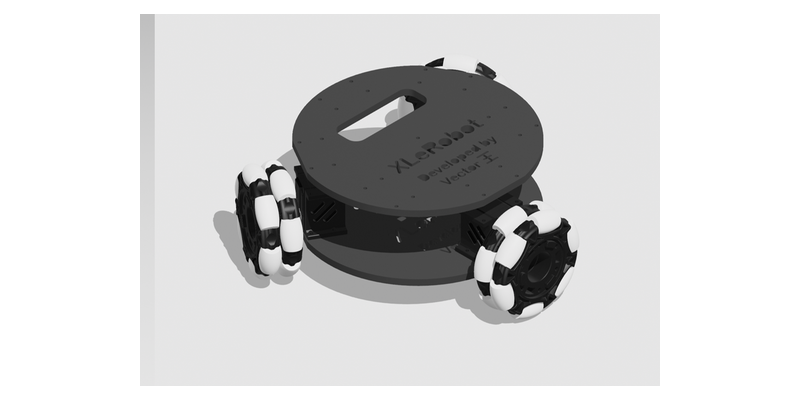
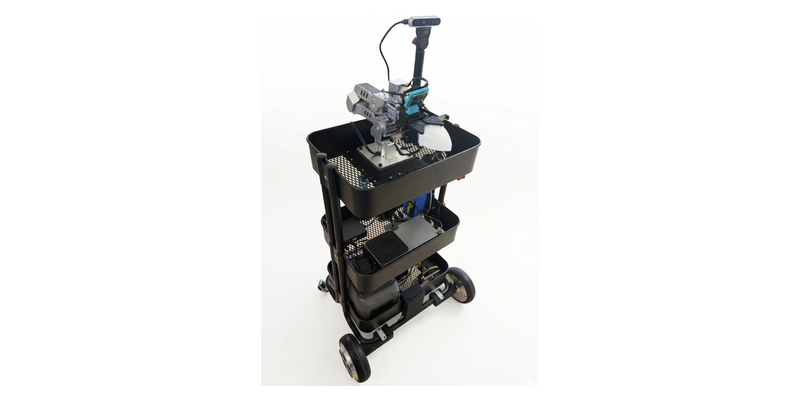
style(home): 首页卡片网格改满宽(桌面 4 列)+ XLeRobot 换官方整机渲染图
满宽:
- .card-grid / .category-grid 由「文档容器 688px 内」改为按视口定宽:
  --grid-w: min(1320px, 100vw - 48px),再用 margin-left 偏移居中
  (没沿用 hero 的 50vw 负 margin——50vw 把滚动条宽度也算进去,会挤出横向滚动条)
- 列宽 240px → 260px:1320px 下正好 4 列,产品系列 8 卡 4+4、浏览分类 4 卡一行
- 实测 1440/1000/768 三档:无横向溢出(overflow 0),列数 4/3/2,两侧留白 60/24/24px

XLeRobot 卡片图:
- 原先用教程里的底盘渲染图(店铺未上架、素材无整机产品照);现换为官方仓库的
  整机 3D 渲染图(Vector-Wangel/XLeRobot → hardware/odrive/media/full_assembly.png,
  白底、双臂+相机塔+推车底盘),走同一套 Pillow 管线出 800×400 / 800×500
- 顺带查证:该仓库其余图多为 CAD 零件图、任务演示 GIF(带字幕)与吉祥物 logo,
  均不适合做首页卡片

闸门:check:links 1980/2002、build 49s、无行尾噪声、产物 CSS 含 --grid-w 规则

diff --git a/docs/content/de/index.md b/docs/content/de/index.md
@@ -168,9 +168,13 @@ const storeUrl = computed(() => {
 
 .card-grid {
   display: grid;
-  grid-template-columns: repeat(auto-fill, minmax(240px, 1fr));
+  grid-template-columns: repeat(auto-fill, minmax(260px, 1fr));
   gap: 24px;
-  margin: 32px 0 64px 0;
+  /* 满宽:突破文档容器的 688px 限宽(与 hero 同思路但不用 50vw,
+     避免滚动条宽度被计入导致横向溢出);超宽屏封顶 1320px 与 hero 对齐 */
+  --grid-w: min(1320px, 100vw - 48px);
+  width: var(--grid-w);
+  margin: 32px calc(50% - var(--grid-w) / 2) 64px;
 }
 
 .card {
@@ -207,9 +211,13 @@ const storeUrl = computed(() => {
 
 .category-grid {
   display: grid;
-  grid-template-columns: repeat(auto-fill, minmax(240px, 1fr));
+  grid-template-columns: repeat(auto-fill, minmax(260px, 1fr));
   gap: 20px;
-  margin: 32px 0 64px 0;
+  /* 满宽:突破文档容器的 688px 限宽(与 hero 同思路但不用 50vw,
+     避免滚动条宽度被计入导致横向溢出);超宽屏封顶 1320px 与 hero 对齐 */
+  --grid-w: min(1320px, 100vw - 48px);
+  width: var(--grid-w);
+  margin: 32px calc(50% - var(--grid-w) / 2) 64px;
 }
 
 .category-card {

diff --git a/docs/content/es/index.md b/docs/content/es/index.md
@@ -168,9 +168,13 @@ const storeUrl = computed(() => {
 
 .card-grid {
   display: grid;
-  grid-template-columns: repeat(auto-fill, minmax(240px, 1fr));
+  grid-template-columns: repeat(auto-fill, minmax(260px, 1fr));
   gap: 24px;
-  margin: 32px 0 64px 0;
+  /* 满宽:突破文档容器的 688px 限宽(与 hero 同思路但不用 50vw,
+     避免滚动条宽度被计入导致横向溢出);超宽屏封顶 1320px 与 hero 对齐 */
+  --grid-w: min(1320px, 100vw - 48px);
+  width: var(--grid-w);
+  margin: 32px calc(50% - var(--grid-w) / 2) 64px;
 }
 
 .card {
@@ -207,9 +211,13 @@ const storeUrl = computed(() => {
 
 .category-grid {
   display: grid;
-  grid-template-columns: repeat(auto-fill, minmax(240px, 1fr));
+  grid-template-columns: repeat(auto-fill, minmax(260px, 1fr));
   gap: 20px;
-  margin: 32px 0 64px 0;
+  /* 满宽:突破文档容器的 688px 限宽(与 hero 同思路但不用 50vw,
+     避免滚动条宽度被计入导致横向溢出);超宽屏封顶 1320px 与 hero 对齐 */
+  --grid-w: min(1320px, 100vw - 48px);
+  width: var(--grid-w);
+  margin: 32px calc(50% - var(--grid-w) / 2) 64px;
 }
 
 .category-card {

diff --git a/docs/content/fr/index.md b/docs/content/fr/index.md
@@ -168,9 +168,13 @@ const storeUrl = computed(() => {
 
 .card-grid {
   display: grid;
-  grid-template-columns: repeat(auto-fill, minmax(240px, 1fr));
+  grid-template-columns: repeat(auto-fill, minmax(260px, 1fr));
   gap: 24px;
-  margin: 32px 0 64px 0;
+  /* 满宽:突破文档容器的 688px 限宽(与 hero 同思路但不用 50vw,
+     避免滚动条宽度被计入导致横向溢出);超宽屏封顶 1320px 与 hero 对齐 */
+  --grid-w: min(1320px, 100vw - 48px);
+  width: var(--grid-w);
+  margin: 32px calc(50% - var(--grid-w) / 2) 64px;
 }
 
 .card {
@@ -207,9 +211,13 @@ const storeUrl = computed(() => {
 
 .category-grid {
   display: grid;
-  grid-template-columns: repeat(auto-fill, minmax(240px, 1fr));
+  grid-template-columns: repeat(auto-fill, minmax(260px, 1fr));
   gap: 20px;
-  margin: 32px 0 64px 0;
+  /* 满宽:突破文档容器的 688px 限宽(与 hero 同思路但不用 50vw,
+     避免滚动条宽度被计入导致横向溢出);超宽屏封顶 1320px 与 hero 对齐 */
+  --grid-w: min(1320px, 100vw - 48px);
+  width: var(--grid-w);
+  margin: 32px calc(50% - var(--grid-w) / 2) 64px;
 }
 
 .category-card {

diff --git a/docs/content/index.md b/docs/content/index.md
@@ -168,9 +168,13 @@ const storeUrl = computed(() => {
 
 .card-grid {
   display: grid;
-  grid-template-columns: repeat(auto-fill, minmax(240px, 1fr));
+  grid-template-columns: repeat(auto-fill, minmax(260px, 1fr));
   gap: 24px;
-  margin: 32px 0 64px 0;
+  /* 满宽:突破文档容器的 688px 限宽(与 hero 同思路但不用 50vw,
+     避免滚动条宽度被计入导致横向溢出);超宽屏封顶 1320px 与 hero 对齐 */
+  --grid-w: min(1320px, 100vw - 48px);
+  width: var(--grid-w);
+  margin: 32px calc(50% - var(--grid-w) / 2) 64px;
 }
 
 .card {
@@ -207,9 +211,13 @@ const storeUrl = computed(() => {
 
 .category-grid {
   display: grid;
-  grid-template-columns: repeat(auto-fill, minmax(240px, 1fr));
+  grid-template-columns: repeat(auto-fill, minmax(260px, 1fr));
   gap: 20px;
-  margin: 32px 0 64px 0;
+  /* 满宽:突破文档容器的 688px 限宽(与 hero 同思路但不用 50vw,
+     避免滚动条宽度被计入导致横向溢出);超宽屏封顶 1320px 与 hero 对齐 */
+  --grid-w: min(1320px, 100vw - 48px);
+  width: var(--grid-w);
+  margin: 32px calc(50% - var(--grid-w) / 2) 64px;
 }
 
 .category-card {

diff --git a/docs/content/it/index.md b/docs/content/it/index.md
@@ -168,9 +168,13 @@ const storeUrl = computed(() => {
 
 .card-grid {
   display: grid;
-  grid-template-columns: repeat(auto-fill, minmax(240px, 1fr));
+  grid-template-columns: repeat(auto-fill, minmax(260px, 1fr));
   gap: 24px;
-  margin: 32px 0 64px 0;
+  /* 满宽:突破文档容器的 688px 限宽(与 hero 同思路但不用 50vw,
+     避免滚动条宽度被计入导致横向溢出);超宽屏封顶 1320px 与 hero 对齐 */
+  --grid-w: min(1320px, 100vw - 48px);
+  width: var(--grid-w);
+  margin: 32px calc(50% - var(--grid-w) / 2) 64px;
 }
 
 .card {
@@ -207,9 +211,13 @@ const storeUrl = computed(() => {
 
 .category-grid {
   display: grid;
-  grid-template-columns: repeat(auto-fill, minmax(240px, 1fr));
+  grid-template-columns: repeat(auto-fill, minmax(260px, 1fr));
   gap: 20px;
-  margin: 32px 0 64px 0;
+  /* 满宽:突破文档容器的 688px 限宽(与 hero 同思路但不用 50vw,
+     避免滚动条宽度被计入导致横向溢出);超宽屏封顶 1320px 与 hero 对齐 */
+  --grid-w: min(1320px, 100vw - 48px);
+  width: var(--grid-w);
+  margin: 32px calc(50% - var(--grid-w) / 2) 64px;
 }
 
 .category-card {

diff --git a/docs/content/ja/index.md b/docs/content/ja/index.md
@@ -168,9 +168,13 @@ const storeUrl = computed(() => {
 
 .card-grid {
   display: grid;
-  grid-template-columns: repeat(auto-fill, minmax(240px, 1fr));
+  grid-template-columns: repeat(auto-fill, minmax(260px, 1fr));
   gap: 24px;
-  margin: 32px 0 64px 0;
+  /* 满宽:突破文档容器的 688px 限宽(与 hero 同思路但不用 50vw,
+     避免滚动条宽度被计入导致横向溢出);超宽屏封顶 1320px 与 hero 对齐 */
+  --grid-w: min(1320px, 100vw - 48px);
+  width: var(--grid-w);
+  margin: 32px calc(50% - var(--grid-w) / 2) 64px;
 }
 
 .card {
@@ -207,9 +211,13 @@ const storeUrl = computed(() => {
 
 .category-grid {
   display: grid;
-  grid-template-columns: repeat(auto-fill, minmax(240px, 1fr));
+  grid-template-columns: repeat(auto-fill, minmax(260px, 1fr));
   gap: 20px;
-  margin: 32px 0 64px 0;
+  /* 满宽:突破文档容器的 688px 限宽(与 hero 同思路但不用 50vw,
+     避免滚动条宽度被计入导致横向溢出);超宽屏封顶 1320px 与 hero 对齐 */
+  --grid-w: min(1320px, 100vw - 48px);
+  width: var(--grid-w);
+  margin: 32px calc(50% - var(--grid-w) / 2) 64px;
 }
 
 .category-card {

diff --git a/docs/content/ko/index.md b/docs/content/ko/index.md
@@ -168,9 +168,13 @@ const storeUrl = computed(() => {
 
 .card-grid {
   display: grid;
-  grid-template-columns: repeat(auto-fill, minmax(240px, 1fr));
+  grid-template-columns: repeat(auto-fill, minmax(260px, 1fr));
   gap: 24px;
-  margin: 32px 0 64px 0;
+  /* 满宽:突破文档容器的 688px 限宽(与 hero 同思路但不用 50vw,
+     避免滚动条宽度被计入导致横向溢出);超宽屏封顶 1320px 与 hero 对齐 */
+  --grid-w: min(1320px, 100vw - 48px);
+  width: var(--grid-w);
+  margin: 32px calc(50% - var(--grid-w) / 2) 64px;
 }
 
 .card {
@@ -207,9 +211,13 @@ const storeUrl = computed(() => {
 
 .category-grid {
   display: grid;
-  grid-template-columns: repeat(auto-fill, minmax(240px, 1fr));
+  grid-template-columns: repeat(auto-fill, minmax(260px, 1fr));
   gap: 20px;
-  margin: 32px 0 64px 0;
+  /* 满宽:突破文档容器的 688px 限宽(与 hero 同思路但不用 50vw,
+     避免滚动条宽度被计入导致横向溢出);超宽屏封顶 1320px 与 hero 对齐 */
+  --grid-w: min(1320px, 100vw - 48px);
+  width: var(--grid-w);
+  margin: 32px calc(50% - var(--grid-w) / 2) 64px;
 }
 
 .category-card {

diff --git a/docs/content/pt-br/index.md b/docs/content/pt-br/index.md
@@ -170,9 +170,13 @@ const storeUrl = computed(() => {
 
 .card-grid {
   display: grid;
-  grid-template-columns: repeat(auto-fill, minmax(240px, 1fr));
+  grid-template-columns: repeat(auto-fill, minmax(260px, 1fr));
   gap: 24px;
-  margin: 32px 0 64px 0;
+  /* 满宽:突破文档容器的 688px 限宽(与 hero 同思路但不用 50vw,
+     避免滚动条宽度被计入导致横向溢出);超宽屏封顶 1320px 与 hero 对齐 */
+  --grid-w: min(1320px, 100vw - 48px);
+  width: var(--grid-w);
+  margin: 32px calc(50% - var(--grid-w) / 2) 64px;
 }
 
 .card {
@@ -209,9 +213,13 @@ const storeUrl = computed(() => {
 
 .category-grid {
   display: grid;
-  grid-template-columns: repeat(auto-fill, minmax(240px, 1fr));
+  grid-template-columns: repeat(auto-fill, minmax(260px, 1fr));
   gap: 20px;
-  margin: 32px 0 64px 0;
+  /* 满宽:突破文档容器的 688px 限宽(与 hero 同思路但不用 50vw,
+     避免滚动条宽度被计入导致横向溢出);超宽屏封顶 1320px 与 hero 对齐 */
+  --grid-w: min(1320px, 100vw - 48px);
+  width: var(--grid-w);
+  margin: 32px calc(50% - var(--grid-w) / 2) 64px;
 }
 
 .category-card {

diff --git a/docs/content/pt-pt/index.md b/docs/content/pt-pt/index.md
@@ -170,9 +170,13 @@ const storeUrl = computed(() => {
 
 .card-grid {
   display: grid;
-  grid-template-columns: repeat(auto-fill, minmax(240px, 1fr));
+  grid-template-columns: repeat(auto-fill, minmax(260px, 1fr));
   gap: 24px;
-  margin: 32px 0 64px 0;
+  /* 满宽:突破文档容器的 688px 限宽(与 hero 同思路但不用 50vw,
+     避免滚动条宽度被计入导致横向溢出);超宽屏封顶 1320px 与 hero 对齐 */
+  --grid-w: min(1320px, 100vw - 48px);
+  width: var(--grid-w);
+  margin: 32px calc(50% - var(--grid-w) / 2) 64px;
 }
 
 .card {
@@ -209,9 +213,13 @@ const storeUrl = computed(() => {
 
 .category-grid {
   display: grid;
-  grid-template-columns: repeat(auto-fill, minmax(240px, 1fr));
+  grid-template-columns: repeat(auto-fill, minmax(260px, 1fr));
   gap: 20px;
-  margin: 32px 0 64px 0;
+  /* 满宽:突破文档容器的 688px 限宽(与 hero 同思路但不用 50vw,
+     避免滚动条宽度被计入导致横向溢出);超宽屏封顶 1320px 与 hero 对齐 */
+  --grid-w: min(1320px, 100vw - 48px);
+  width: var(--grid-w);
+  margin: 32px calc(50% - var(--grid-w) / 2) 64px;
 }
 
 .category-card {

diff --git a/docs/content/zh-hans/index.md b/docs/content/zh-hans/index.md
@@ -169,9 +169,13 @@ const storeUrl = computed(() => {
 
 .card-grid {
   display: grid;
-  grid-template-columns: repeat(auto-fill, minmax(240px, 1fr));
+  grid-template-columns: repeat(auto-fill, minmax(260px, 1fr));
   gap: 24px;
-  margin: 32px 0 64px 0;
+  /* 满宽:突破文档容器的 688px 限宽(与 hero 同思路但不用 50vw,
+     避免滚动条宽度被计入导致横向溢出);超宽屏封顶 1320px 与 hero 对齐 */
+  --grid-w: min(1320px, 100vw - 48px);
+  width: var(--grid-w);
+  margin: 32px calc(50% - var(--grid-w) / 2) 64px;
 }
 
 .card {
@@ -208,9 +212,13 @@ const storeUrl = computed(() => {
 
 .category-grid {
   display: grid;
-  grid-template-columns: repeat(auto-fill, minmax(240px, 1fr));
+  grid-template-columns: repeat(auto-fill, minmax(260px, 1fr));
   gap: 20px;
-  margin: 32px 0 64px 0;
+  /* 满宽:突破文档容器的 688px 限宽(与 hero 同思路但不用 50vw,
+     避免滚动条宽度被计入导致横向溢出);超宽屏封顶 1320px 与 hero 对齐 */
+  --grid-w: min(1320px, 100vw - 48px);
+  width: var(--grid-w);
+  margin: 32px calc(50% - var(--grid-w) / 2) 64px;
 }
 
 .category-card {

diff --git a/docs/content/zh-hant/index.md b/docs/content/zh-hant/index.md
@@ -170,9 +170,13 @@ const storeUrl = computed(() => {
 
 .card-grid {
   display: grid;
-  grid-template-columns: repeat(auto-fill, minmax(240px, 1fr));
+  grid-template-columns: repeat(auto-fill, minmax(260px, 1fr));
   gap: 24px;
-  margin: 32px 0 64px 0;
+  /* 满宽:突破文档容器的 688px 限宽(与 hero 同思路但不用 50vw,
+     避免滚动条宽度被计入导致横向溢出);超宽屏封顶 1320px 与 hero 对齐 */
+  --grid-w: min(1320px, 100vw - 48px);
+  width: var(--grid-w);
+  margin: 32px calc(50% - var(--grid-w) / 2) 64px;
 }
 
 .card {
@@ -209,9 +213,13 @@ const storeUrl = computed(() => {
 
 .category-grid {
   display: grid;
-  grid-template-columns: repeat(auto-fill, minmax(240px, 1fr));
+  grid-template-columns: repeat(auto-fill, minmax(260px, 1fr));
   gap: 20px;
-  margin: 32px 0 64px 0;
+  /* 满宽:突破文档容器的 688px 限宽(与 hero 同思路但不用 50vw,
+     避免滚动条宽度被计入导致横向溢出);超宽屏封顶 1320px 与 hero 对齐 */
+  --grid-w: min(1320px, 100vw - 48px);
+  width: var(--grid-w);
+  margin: 32px calc(50% - var(--grid-w) / 2) 64px;
 }
 
 .category-card {
